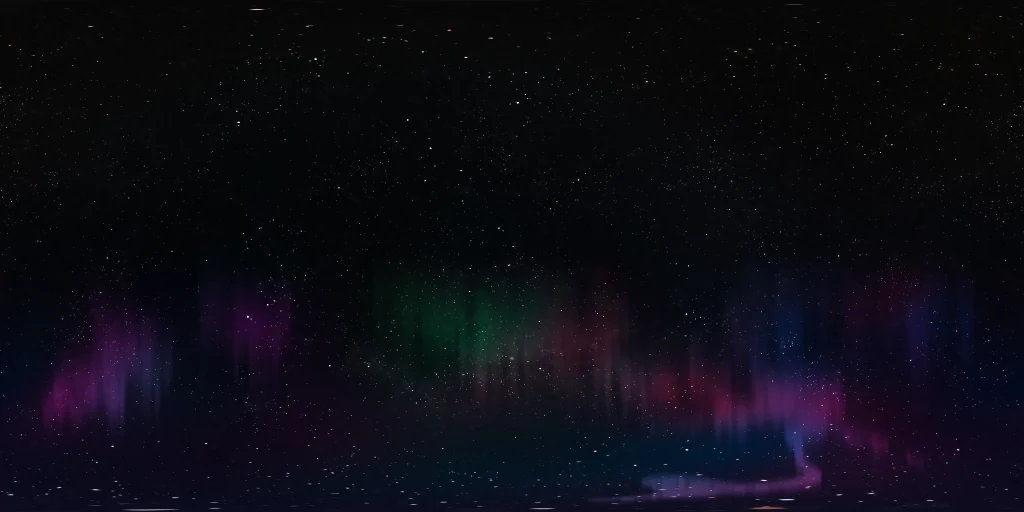
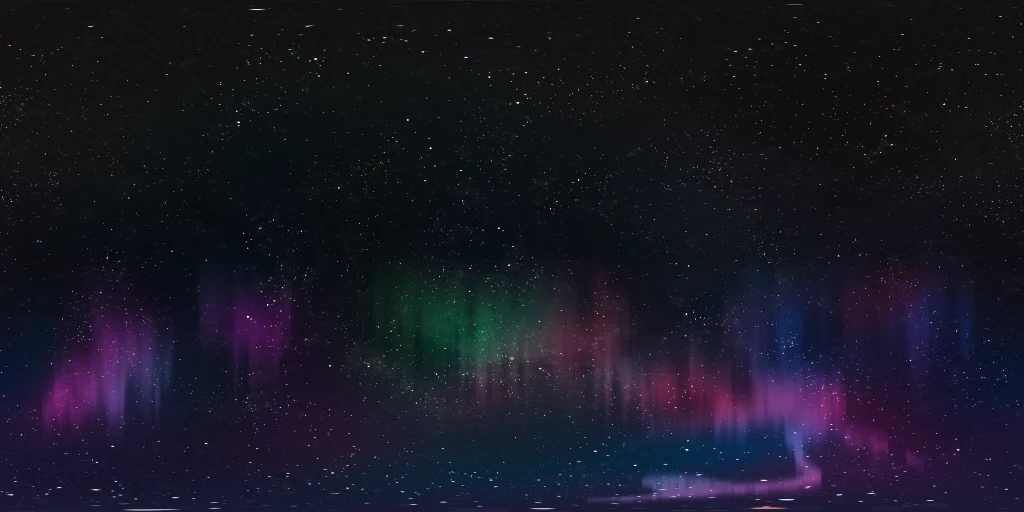
fix: el cielo se revela con su propia exposición, no con la del renderer
El cielo salía en azul marino a mediodía. La causa: lo revelaba con el
toneMappingExposure del renderer, que vale 0,5 porque está puesto para que el
HDRI no queme de blanco la pared clara de la sala, no para el cielo. Antes
esto no se podía separar —cielo e iluminación salían del mismo mapa—, pero
ahora la luz va por el .bin y el cielo puede tener su propia exposición sin
tocar un solo material.

Los números salen de comparar el mismo cielo revelado a varias exposiciones:
de día, con 0,5 es azul marino y con 3 se lava hasta perder el azul del
cenit, así que va con 2; de noche es al revés, subir de 1 convierte el negro
en un gris lechoso y se acaba la noche, así que va con 0,9.

diff --git a/scripts/build-sky.ts b/scripts/build-sky.ts
@@ -35,22 +35,32 @@ const ROOM_DIR = path.join(process.cwd(), "public", "Sala");
 const SKY_WIDTH = 1024;
 
 /**
- * El webp guarda el cielo **ya revelado**: con el mismo ACES y la misma
- * exposición que el renderer, no los valores crudos.
+ * El webp guarda el cielo **ya revelado**: pasado por el mismo ACES que usa el
+ * renderer, pero con su propia exposición.
  *
- * El primer intento fue guardarlos crudos y recortar lo que pasara de 1.
- * Parecía inofensivo —en el cielo de día eso es el 0,3 % de los píxeles— pero
- * son justo los que tienen la luz: el sol vale 57.000 y su halo va de 1 a 5.
- * Recortados, el sol se quedó en una mancha sosa, las nubes perdieron el
- * contraste y el cielo entero salió lavado. Revelarlo aquí conserva el
- * resultado exacto de antes, porque es literalmente la misma cuenta.
+ * Que sea propia es el asunto. El `toneMappingExposure` del renderer vale 0,5
+ * y está puesto para que el HDRI no queme de blanco la pared clara de la sala;
+ * revelar el cielo con ese mismo número lo dejaba en azul marino, de noche
+ * cerrada a mediodía. Antes no se notaba porque cielo e iluminación salían del
+ * mismo sitio y no había forma de separarlos. Ahora la luz va por el `.bin`, y
+ * el cielo puede revelarse a su gusto sin tocar ni un material de la sala.
  *
- * A cambio, el cielo se pinta con `toneMapped: false` (ver `Room3D.tsx`): si
- * el renderer volviera a aplicarle su curva, saldría con la exposición puesta
- * dos veces. **Este número tiene que seguir a `renderer.toneMappingExposure`;
- * si allí cambia, aquí también y hay que regenerar los cielos.**
+ * Los números salen de comparar el mismo cielo a varias exposiciones:
+ *  - de día, con 0,5 es azul marino y con 3 se lava hasta perder el azul del
+ *    cenit; en 2 se lee como un día claro con las nubes bien dibujadas.
+ *  - de noche va al revés: subir de 1 convierte el negro en un gris lechoso y
+ *    se acaba la noche. En 0,9 el cielo sigue cerrado y la aurora se ve.
+ *
+ * Antes de esto se probó guardar los valores crudos y recortar lo que pasara
+ * de 1. Parecía inofensivo —de día eso es el 0,3 % de los píxeles— pero son
+ * justo los que tienen la luz: el sol vale 57.000 y su halo va de 1 a 5. Sin
+ * ellos no había ni sol ni relieve en las nubes.
+ *
+ * El cielo se pinta con `toneMapped: false` (ver `Room3D.tsx`): si el renderer
+ * volviera a aplicarle su curva, llevaría la exposición puesta dos veces.
  */
-const TONE_EXPOSURE = 0.5;
+const SKY_EXPOSURE: Record<string, number> = { day: 2, night: 0.9 };
+const EXPOSICION_POR_DEFECTO = 1.2;
 
 /**
  * Cuánto se adelgazan las estrellas del cielo nocturno. Elevar el brillo a una
@@ -93,10 +103,15 @@ function ajusteACES(v: number): number {
  * mostrable. Es lo que convierte un sol de 57.000 en un disco blanco con su
  * halo alrededor, en vez de en un recorte plano.
  */
-function revelar(r: number, g: number, b: number): [number, number, number] {
-  const er = r * TONE_EXPOSURE;
-  const eg = g * TONE_EXPOSURE;
-  const eb = b * TONE_EXPOSURE;
+function revelar(
+  r: number,
+  g: number,
+  b: number,
+  exposicion: number,
+): [number, number, number] {
+  const er = r * exposicion;
+  const eg = g * exposicion;
+  const eb = b * exposicion;
   // A espacio ACES (las columnas de `ACESInputMat`).
   const x = ajusteACES(0.59719 * er + 0.35458 * eg + 0.04823 * eb);
   const y = ajusteACES(0.076 * er + 0.90834 * eg + 0.01566 * eb);
@@ -190,9 +205,15 @@ async function construirCielo(nombre: string, buffer: Buffer): Promise<void> {
   // --- El cielo visible -----------------------------------------------------
   // Solo el de noche tiene estrellas que adelgazar; el de día, ni una.
   const visible = nombre === "night" ? adelgazarEstrellas(pixels) : pixels;
+  const exposicion = SKY_EXPOSURE[nombre] ?? EXPOSICION_POR_DEFECTO;
   const rgb = Buffer.alloc(width * height * 3);
   for (let i = 0; i < width * height; i++) {
-    const color = revelar(visible[i * 4]!, visible[i * 4 + 1]!, visible[i * 4 + 2]!);
+    const color = revelar(
+      visible[i * 4]!,
+      visible[i * 4 + 1]!,
+      visible[i * 4 + 2]!,
+      exposicion,
+    );
     for (let c = 0; c < 3; c++) rgb[i * 3 + c] = aSRGB(color[c]!);
   }
   const destinoSky = path.join(ROOM_DIR, `${nombre}-sky.webp`);

diff --git a/CLAUDE.md b/CLAUDE.md
@@ -108,9 +108,17 @@ castellano, con sus tildes.
   den). Salen del `.exr` con `pnpm build:sky`; no los sustituyas a mano, igual
   que las margaritas y las texturas de la sala. Juntos pesan la cuarta parte
   que el `.exr` y ahorran los 160–190 ms que costaba descomprimir PIZ en el
-  hilo principal. El webp se genera **sin** curva de exposición —solo lineal a
-  sRGB—: el tono se lo da el `ACESFilmicToneMapping` del renderer, y aplicarla
-  también al generarlo dejaría el cielo con la exposición puesta dos veces.
+  hilo principal.
+- **El cielo se revela al generarlo, con su propia exposición.** El webp sale
+  ya pasado por el ACES del renderer, y se pinta con `toneMapped: false` sobre
+  una esfera propia para que no se le aplique la curva dos veces. La
+  exposición (`SKY_EXPOSURE`) **no** es la del renderer: ese 0,5 está para que
+  el HDRI no queme la pared clara de la sala, y revelando el cielo con él sale
+  azul marino a mediodía. Como la luz de la sala va ahora por el `.bin`, el
+  cielo puede tener la suya: 2 de día, 0,9 de noche —subirla de 1 de noche
+  convierte el negro en gris lechoso y se acaba la noche—. No guardes los
+  valores crudos recortando por encima de 1: el sol vale 57.000 y su halo va
+  de 1 a 5, y sin ellos no hay ni sol ni relieve en las nubes.
 - **Si añades un `<script>` inline, pásale `scriptNonce()`.** Con la CSP
   activa, sin nonce el navegador lo bloquea.
 - **De un fichero con `"use server"` solo se exportan funciones async.** Una

diff --git a/TODO.md b/TODO.md
@@ -176,15 +176,17 @@ ese fichero se le pedían dos cosas que no necesitan lo mismo, y ahora van
 por separado (`pnpm build:sky`, `SKY_BY_THEME` en `Room3D.tsx`):
 
 - `day-sky.webp` / `night-sky.webp` — el cielo que se ve. Quiere resolución,
-  no rango dinámico. 17 y 33 kB. Va directo a `scene.background`, sin pasar
-  por el PMREM: antes el fondo era el propio cubo de reflejos, o sea el
-  cielo ya desenfocado, así que además se ve mejor que antes.
+  no rango dinámico. 19 y 48 kB. Va en una esfera propia con
+  `toneMapped: false`, no en `scene.background`: sale del script ya revelado
+  y con su propia exposición, que no es la del renderer (ver `CLAUDE.md`).
+  Antes el fondo era el cubo de reflejos del PMREM, o sea el cielo ya
+  desenfocado, así que además se ve más nítido que antes.
 - `day-env.bin` / `night-env.bin` — la luz. Quiere el rango entero (el sol
   vale mucho más que 1) pero no resolución, porque el PMREM la difumina de
   todas formas: 256×128 en media precisión, 257 kB. El `PMREMGenerator`
   monta su cubo con un lado de un cuarto del ancho que le den, de ahí el 256.
 
-De 1,1 MB a 274 kB el de día, de 1,7 MB a 290 kB el de noche, y se acabaron
+De 1,1 MB a 276 kB el de día, de 1,7 MB a 305 kB el de noche, y se acabaron
 los 160–190 ms de descompresión PIZ con la sala parada. El `EXRLoader` ya no
 se importa, así que tampoco viaja en el paquete.
 
